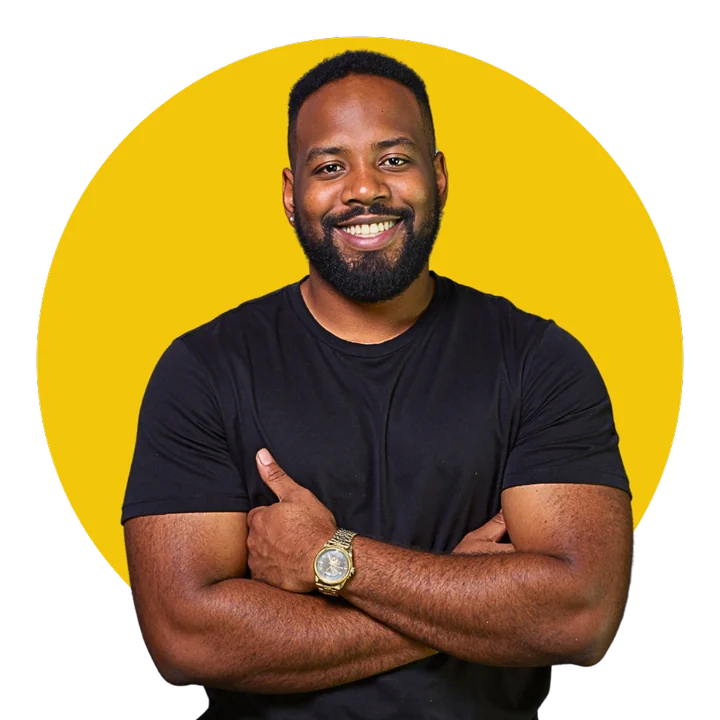
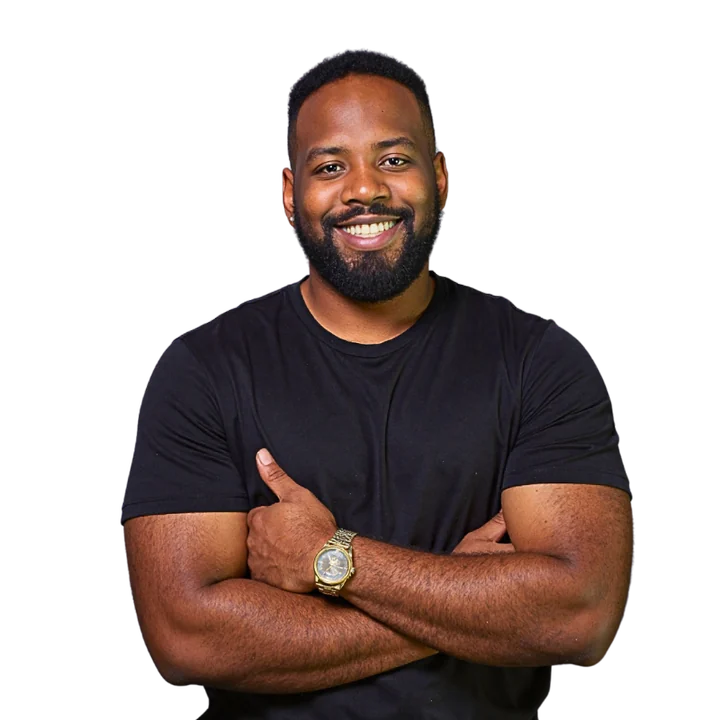
Refresh founder portraits on download page

Changed region(s): [[0.0306, 0.0306, 0.9472, 0.825]]

diff --git a/docs/download/index.html b/docs/download/index.html
@@ -49,7 +49,7 @@
     .header-links a { color: var(--muted); font-size: 13px; font-weight: 750; text-decoration: none; white-space: nowrap; }
     .header-links a:hover, .header-links a:focus-visible { color: var(--ink); }
     .hero { display: grid; grid-template-columns: minmax(0,.88fr) minmax(500px,1.12fr); align-items: center; gap: 58px; padding: 82px 0 110px; }
-    .eyebrow, .section-kicker { margin: 0 0 18px; color: #9db3f7; font-size: 12px; font-weight: 850; letter-spacing: .14em; text-transform: uppercase; }
+    .section-kicker { margin: 0 0 18px; color: #9db3f7; font-size: 12px; font-weight: 850; letter-spacing: .14em; text-transform: uppercase; }
     h1 { margin: 0; font-size: clamp(50px, 6.5vw, 82px); line-height: .96; letter-spacing: -.058em; }
     .lede { max-width: 590px; margin: 26px 0 0; color: var(--soft); font-size: clamp(17px, 2vw, 20px); line-height: 1.55; }
     .actions { display: flex; flex-wrap: wrap; align-items: center; gap: 14px; margin-top: 34px; }
@@ -93,7 +93,7 @@
     .creator-links .creator-youtube { fill: #ff3542; stroke: none; }
     .creator-links .creator-youtube path:last-child { fill: #fff; }
     .creator-links a:hover, .creator-links a:focus-visible { border-color: rgba(157,179,247,.55); background: rgba(66,133,244,.12); color: #fff; transform: translateY(-2px); }
-    .creator-founders { display: grid; grid-template-columns: repeat(2,minmax(0,1fr)); gap: 11px; }
+    .creator-founders { display: grid; grid-template-columns: repeat(2,minmax(0,1fr)); gap: 5px; }
     .creator-founder { position: relative; min-width: 0; overflow: hidden; aspect-ratio: .82 / 1; border: 1px solid rgba(255,255,255,.13); border-radius: 20px; background: linear-gradient(160deg,#151920,#050608); }
     .creator-founder img { width: 100%; height: 100%; display: block; object-fit: cover; object-position: center top; }
     .creator-founder figcaption { position: absolute; right: 8px; bottom: 8px; left: 8px; padding: 8px 9px; border: 1px solid rgba(255,255,255,.13); border-radius: 11px; background: rgba(3,5,9,.76); color: #fff; font-size: 11px; font-weight: 850; line-height: 1.25; backdrop-filter: blur(9px); }
@@ -514,7 +514,6 @@
     <main id="top">
       <section class="hero">
         <div class="hero-copy">
-          <p class="eyebrow">Windows · NVIDIA · Local generation</p>
           <h1>Your studio.<br />On your machine.</h1>
           <p class="lede">Leading local models, optimized settings, and a mobile-optimized UI for creating images and video without building every ComfyUI workflow yourself.</p>
           <div class="actions">

diff --git a/test/portable-installer.test.js b/test/portable-installer.test.js
@@ -58,6 +58,7 @@ test('GitHub Pages publishes the canonical installer from a branded download pag
   assert.equal((page.match(/platform-icon platform-windows/g) || []).length, 2);
   assert.match(page, /macOS support coming soon/);
   assert.match(page, /Setup continues inside Mix Studio/);
+  assert.doesNotMatch(page, /Windows · NVIDIA · Local generation/);
   assert.match(page, /Quick setup/);
   assert.match(page, /install only that workflow/i);
   assert.match(page, /mobile-optimized UI/);
@@ -69,6 +70,7 @@ test('GitHub Pages publishes the canonical installer from a branded download pag
   assert.match(page, /chriselle-dwarika\.webp/);
   assert.match(page, /Nate Dwarika/);
   assert.match(page, /Chriselle Dwarika/);
+  assert.match(page, /\.creator-founders \{[^}]*gap: 5px;/);
   assert.match(page, /https:\/\/www\.blackmixture\.com\//);
   assert.match(page, /https:\/\/www\.youtube\.com\/@blackmixture/);
   assert.match(page, /https:\/\/www\.instagram\.com\/blackmixture\//);